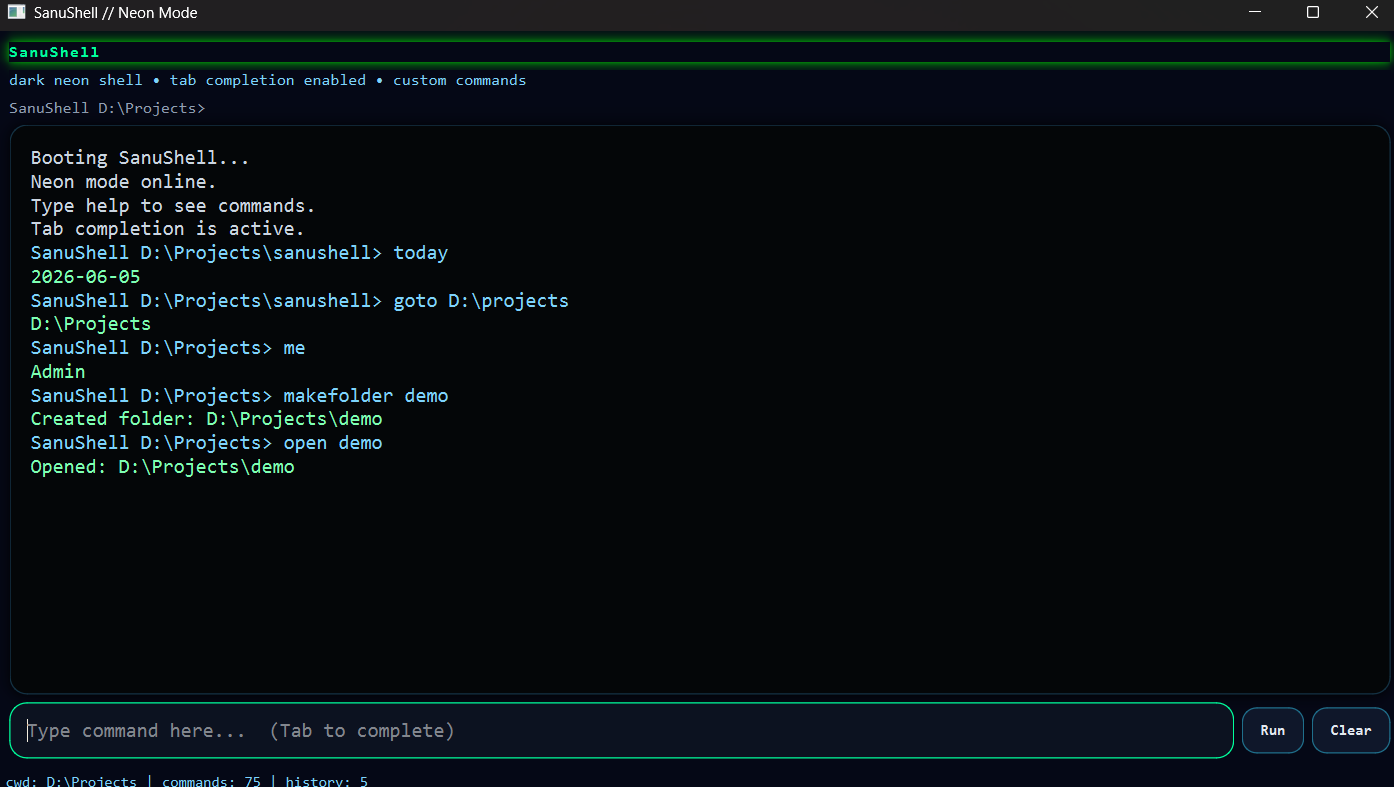
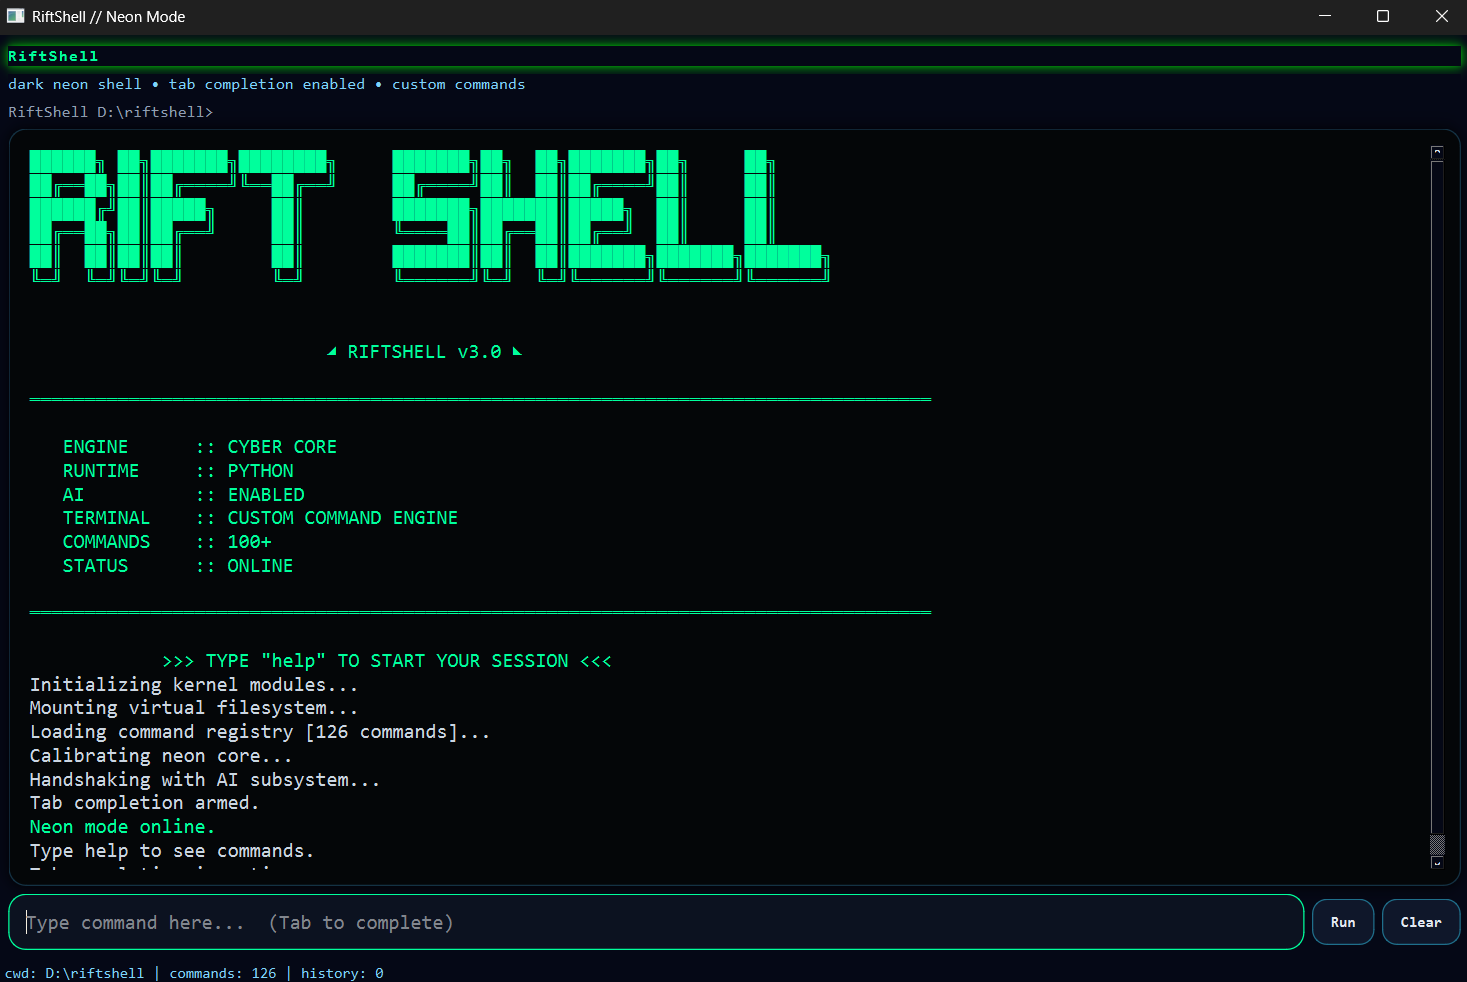
BOOT_BANNER

Changed region(s): [[0.0, 0.0, 1.0, 0.6404], [0.0, 0.1525, 1.0, 1.0], [0.3085, 0.6709, 0.401, 0.7014]]

diff --git a/ui/styles.py b/ui/styles.py
@@ -1,50 +1,50 @@
 STYLE = """
 QMainWindow {
-    background-color: #050816;
+    background-color: #1a1b26;
 }
 
 QWidget {
-    background-color: #050816;
-    color: #d7e1ea;
+    background-color: #1a1b26;
+    color: #a9b1d6;
     font-family: Consolas;
 }
 
 QLabel {
-    color: #cbd5e1;
+    color: #9aa5ce;
     font-size: 10pt;
     font-family: Consolas;
 }
 
 QTextEdit {
-    background-color: #040608;
-    color: #7dffb2;
-    border: 1px solid #143244;
+    background-color: #16161e;
+    color: #c0caf5;
+    border: 1px solid #292e42;
     border-radius: 14px;
     padding: 12px;
     font-size: 12pt;
-    selection-background-color: #173a52;
-    selection-color: #d7e1ea;
+    selection-background-color: #33467c;
+    selection-color: #c0caf5;
 }
 
 QLineEdit {
-    background-color: #0c1220;
-    color: #f8fafc;
-    border: 1px solid #1f6f8b;
+    background-color: #16161e;
+    color: #c0caf5;
+    border: 1px solid #292e42;
     border-radius: 14px;
     padding: 11px;
     font-size: 12pt;
-    selection-background-color: #1f6f8b;
+    selection-background-color: #33467c;
     selection-color: #ffffff;
 }
 
 QLineEdit:focus {
-    border: 1px solid #00ff9c;
+    border: 1px solid #7aa2f7;
 }
 
 QListWidget {
-    background-color: #07101d;
-    color: #dbeafe;
-    border: 1px solid #143244;
+    background-color: #16161e;
+    color: #a9b1d6;
+    border: 1px solid #292e42;
     border-radius: 14px;
     padding: 6px;
     font-size: 10pt;
@@ -56,31 +56,32 @@ QListWidget::item {
 }
 
 QListWidget::item:selected {
-    background-color: #12324a;
-    color: #ffffff;
+    background-color: #2f354d;
+    color: #7dcfff;
 }
 
 QPushButton {
-    background-color: #0f172a;
-    color: #e2e8f0;
-    border: 1px solid #1f6f8b;
+    background-color: #24283b;
+    color: #a9b1d6;
+    border: 1px solid #292e42;
     border-radius: 12px;
     padding: 10px 14px;
     font-weight: 600;
 }
 
 QPushButton:hover {
-    background-color: #12324a;
-    border: 1px solid #00ff9c;
+    background-color: #2f354d;
+    border: 1px solid #7aa2f7;
+    color: #c0caf5;
 }
 
 QPushButton:pressed {
-    background-color: #08111f;
+    background-color: #1f2335;
 }
 
 QStatusBar {
-    background-color: #050816;
-    color: #7dd3fc;
+    background-color: #1a1b26;
+    color: #7dcfff;
 }
 """
 

diff --git a/README.md b/README.md
@@ -9,12 +9,6 @@ It is designed to feel like a real shell, but with your own command language and
 ![RiftShell Boot & Basic Commands](assets/basic.png)
 *Boot sequence, dark neon UI, and directory navigation.*
 
-![RiftShell Process Viewer](assets/process.png)
-*Viewing live Windows system processes directly inside the shell.*
-
-![RiftShell  Tree Command](assets/tree.png)
-*Executing Git directory tree views and exploring newly added commands.*
-
 ## What RiftShell does
 
 RiftShell gives you: